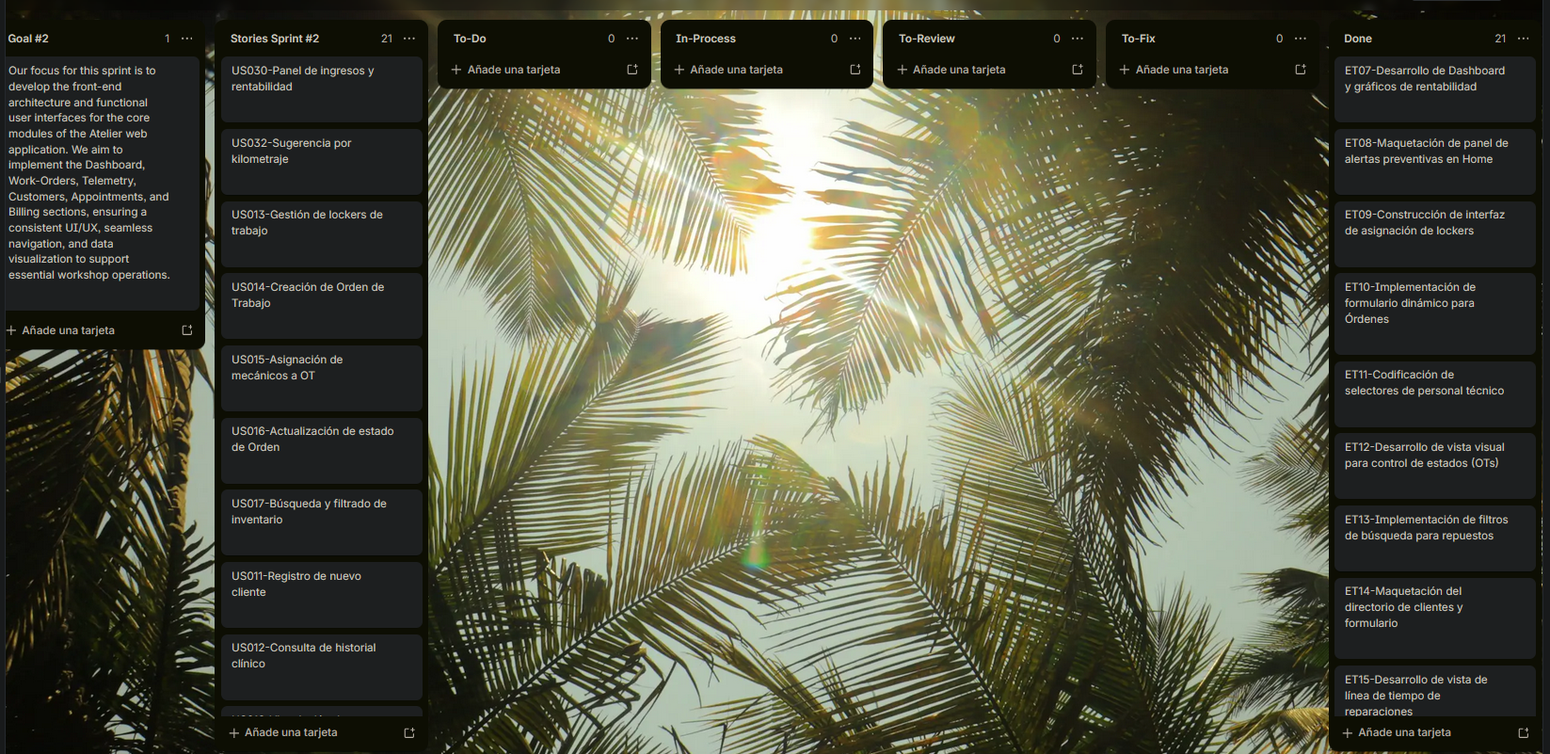
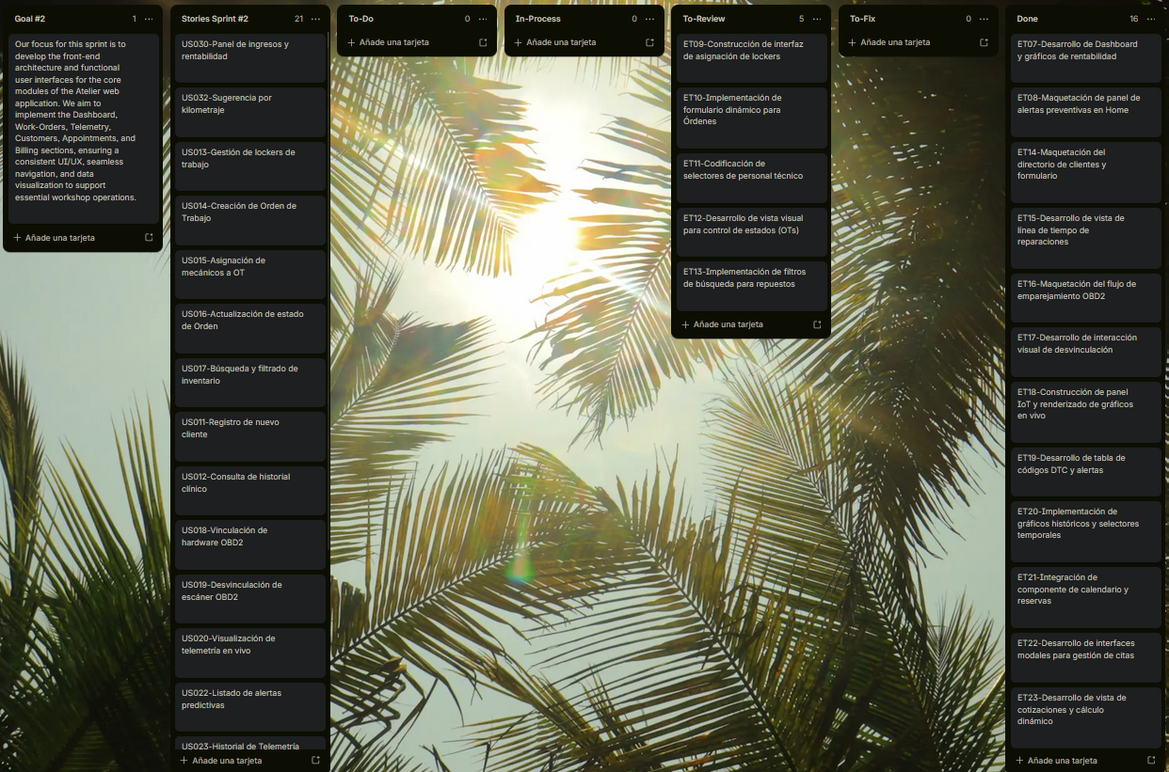
docs: add screenshots of atelier web app deploy.

diff --git a/report/35-landing-page-services-&-applications-implementation-2.md b/report/35-landing-page-services-&-applications-implementation-2.md
@@ -209,7 +209,7 @@
 |    Sprint 2 – 1 Retrospective Summary      |    The team identified that initial task estimations were too low. For the upcoming sprint, we committed to consolidating engineering tasks into blocks of 4 to 8 hours and ensuring a more rigorous technical documentation process.      |
 |     **Sprint Goal & User Stories**     |          |
 |     Sprint 2 Goal     |     Our focus for this sprint is to develop the front-end architecture and functional user interfaces for the core modules of the Atelier web application. We aim to implement the Dashboard, Work-Orders, Telemetry, Customers, Appointments, and Billing sections, ensuring a consistent UI/UX, seamless navigation, and data visualization to support essential workshop operations.     |
-|     Sprint 2 Velocity     |     35     |
+|     Sprint 2 Velocity     |     46     |
 |     Sum of Story Points     |   69       |
 
 #### 5.2.2.2.&emsp;&emsp;*Aspect Leaders and Collaborators* {#cap-5-2-2-2}
@@ -312,11 +312,11 @@
 | User Story |                                     | Work-Item / Task |                                                                |                                                                                                                                              |                    |                 |                                                |
 | Id         | Title                               | Id               | Title                                                          | Description                                                                                                                                  | Estimation (Hours) | Assigned To     | Status (To-do / In-Process / To-Review / Done) |
 | US030      | Panel de ingresos y rentabilidad    | ET07             | Desarrollo de Dashboard y gráficos de rentabilidad             | Codificar la interfaz del Home integrando librerías de gráficos y tarjetas de resumen para exponer visualmente las métricas financieras.     | 6                  | Joel Huamani    | Done                                          |
-| US032      | Sugerencia por kilometraje          | ET08             | Maquetación de panel de alertas preventivas en Home            | Desarrollar la sección del Dashboard dedicada a listar notificaciones y sugerencias proactivas de vehículos que superaron su kilometraje.    | 4                  | Joel Huamani    | Done                                          |
-| US013      | Gestión de lockers de trabajo       | ET09             | Construcción de interfaz de asignación de lockers              | Desarrollar la interfaz gráfica y los indicadores visuales de estado (ocupado/disponible) para la gestión de espacios físicos del taller.    | 4                  | Joel Huamani | Done                                          |
-| US014      | Creación de Orden de Trabajo        | ET10             | Implementación de formulario dinámico para Órdenes             | Maquetar el formulario interactivo para registrar órdenes de trabajo, incorporando selectores de clientes/vehículos y campos de descripción. | 6                  | Joel Huamani | Done                                          |
-| US015      | Asignación de mecánicos a OT        | ET11             | Codificación de selectores de personal técnico                 | Implementar la lógica visual y los componentes desplegables para asignar y vincular mecánicos a las órdenes de trabajo activas.              | 4                  | Joel Huamani | Done                                          |
-| US016      | Actualización de estado de Orden    | ET12             | Desarrollo de vista visual para control de estados (OTs)       | Implementar la interfaz interactiva para visualizar, filtrar y actualizar el progreso técnico y los diagnósticos de las órdenes de trabajo.  | 5                  | Joel Huamani | Done                                          |
+| US032      | Sugerencia por kilometraje          | ET08             | Maquetación de panel de alertas preventivas en Home            | Desarrollar la sección del Dashboard dedicada a listar notificaciones y sugerencias proactivas de vehículos que superaron su kilometraje.    | 4                  | Joel Huamani    | To-Review                                          |
+| US013      | Gestión de lockers de trabajo       | ET09             | Construcción de interfaz de asignación de lockers              | Desarrollar la interfaz gráfica y los indicadores visuales de estado (ocupado/disponible) para la gestión de espacios físicos del taller.    | 4                  | Joel Huamani | To-Review                                          |
+| US014      | Creación de Orden de Trabajo        | ET10             | Implementación de formulario dinámico para Órdenes             | Maquetar el formulario interactivo para registrar órdenes de trabajo, incorporando selectores de clientes/vehículos y campos de descripción. | 6                  | Joel Huamani | To-Review                                          |
+| US015      | Asignación de mecánicos a OT        | ET11             | Codificación de selectores de personal técnico                 | Implementar la lógica visual y los componentes desplegables para asignar y vincular mecánicos a las órdenes de trabajo activas.              | 4                  | Joel Huamani | To-Review                                          |
+| US016      | Actualización de estado de Orden    | ET12             | Desarrollo de vista visual para control de estados (OTs)       | Implementar la interfaz interactiva para visualizar, filtrar y actualizar el progreso técnico y los diagnósticos de las órdenes de trabajo.  | 5                  | Joel Huamani | To-Review                                          |
 | US017      | Búsqueda y filtrado de inventario   | ET13             | Implementación de filtros de búsqueda para repuestos           | Construir la barra de búsqueda y los componentes de filtrado por categoría para localizar repuestos rápidamente durante la reparación.       | 4                  | Joel Huamani | Done                                          |
 | US011      | Registro de nuevo cliente           | ET14             | Maquetación del directorio de clientes y formulario            | Codificar el listado maestro de clientes y el formulario de captura de datos con sus respectivas validaciones visuales de campos.            | 5                  | Aldo Machacca   | Done                                          |
 | US012      | Consulta de historial clínico       | ET15             | Desarrollo de vista de línea de tiempo de reparaciones         | Maquetar la interfaz que expone el historial clínico de los vehículos, ordenando cronológicamente las órdenes de trabajo previas.            | 5                  | Aldo Machacca   | Done                                          |
@@ -346,26 +346,87 @@
 
 | Repository | Branch | Commit Id | Commit Message | Commit Message Body | Commited On |
 |:----------:|:------:|-----------|----------------|---------------------|-------------|
-|     andeva-upc/atelier-web-app-aplicaciones-web       |    develop    |     6e76e6df      |       chore: initial commit.         |                     |     23/04/2026 11:57        |
-|     andeva-upc/atelier-web-app-aplicaciones-web       |    develop    |     32dd8f39      |      feat(material-design): add angular material theming and update styles.          |                     |      23/04/2026 12:02       |
-|     andeva-upc/atelier-web-app-aplicaciones-web       |    develop    |     4786effa      |    feat(i18n): add ngx-translate for internationalization support.            |                     |      23/04/2026 at 12:04       |
-|     andeva-upc/atelier-web-app-aplicaciones-web       |     develop   |    302e7c70       |      feat(i18n): integrate ngx-translate for multilingual support and add language files.          |                     |      23/04/2026 12:14       |
-|     andeva-upc/atelier-web-app-aplicaciones-web       |   develop     |     09075a73      |       feat(header): add header component with logo and buttons.         |                     |      23/04/2026 13:57       |
-|     andeva-upc/atelier-web-app-aplicaciones-web       |   develop     |    6e46c61d       |        feat(value-proposition): add hero component with title, subtitle, and buttons.        |                     |      23/04/2026 at 15:19       |
-|     andeva-upc/atelier-web-app-aplicaciones-web       |   develop     |     fedbfc39      |       style(header): update media query to hide button container on smaller screens.         |                     |      23/04/2026 15:22       |
-|     andeva-upc/atelier-web-app-aplicaciones-web       |    develop    |     b80c7e97      |        style(value-proposition): adjust background position for improved layout        |                     |      23/04/2026 15:27       |
-|     andeva-upc/atelier-web-app-aplicaciones-web       |    develop    |      e53f7f1b     |       style(header): hide logo text on smaller screens and update hero z-index.         |                     |      23/04/2026 15:32       |
-|     andeva-upc/atelier-web-app-aplicaciones-web       |    develop    |     3aae419f      |        style(value-proposition): update button styles and adjust layout for improved responsiveness.        |                     |       on 23/04/2026 at 15:47      |
-|     andeva-upc/atelier-web-app-aplicaciones-web       |   develop     |      070f4fd8     |        feat(benefits): add card component with animation and styling.        |                     |     23/04/2026 19:50        |
-|     andeva-upc/atelier-web-app-aplicaciones-web       |     develop   |     9f2e6d86      |        feat(pricing): initialize pricing component structure and integration.        |                     |     25/04/2026 00:17        |
-|     andeva-upc/atelier-web-app-aplicaciones-web       |   develop     |     aff3e5e2      |       feat(pricing): implement pricing toggle with signals and responsive styles.         |                     |     25/04/2026 00:21        |
-|     andeva-upc/atelier-web-app-aplicaciones-web       |   develop     |     d4d445e7      |       feat(pricing): implement pricing cards with dual-background design and dynamic prices.         |                     |      25/04/2026 00:48       |
-|     andeva-upc/atelier-web-app-aplicaciones-web       |   develop     |     774ba6b6      |        feat(pricing): complete pricing section with footer disclaimer, contact button and full responsive design.        |                     |      25/04/2026 01:15       |
-|     andeva-upc/atelier-web-app-aplicaciones-web       |   develop     |     5609a2fd      |       feat(team-info): add team component with member profiles.         |                     |       25/04/2026 10:32      |
-|     andeva-upc/atelier-website-aplicaciones-web       |   develop     |     d859ca4c      |         fix(team): add mariana's photo and fix card image background.       |                     |        25/04/2026 15:53     |
-|     andeva-upc/atelier-web-app-aplicaciones-web       |   develop     |     5ec553fd      |         feat: add footer in the landing page.       |                     |      25/04/2026 19:56       |
-|     andeva-upc/atelier-web-app-aplicaciones-web       |   develop     |      1c51d1ac     |        fix(footer): reorganize footer component imports and file structure.        |                     |      26/04/2026 07:07       |
-|     andeva-upc/atelier-web-app-aplicaciones-web       |   main     |     a4d98cd5      |        Release/2.0.0        |                     |      26/04/2026 07:23       |
+|     andeva-upc/atelier-web-app-aplicaciones-web       |    main    |     08ecc27b      |       chore: initial commit.         |                     |     4/05/2026 at 21:47        |
+|     andeva-upc/atelier-web-app-aplicaciones-webe       |    feature/json-server    |     7f4bc7a4      |      feat(server): initialize mock backend with json-server and atelier domain data.          |                     |      4/05/2026 at 22:49       |
+|     andeva-upc/atelier-web-app-aplicaciones-web       |    feature/json-server    |     ec41ff8e      |    feat(i18n): add ngx-translate for internationalization support.            |                     |      23/04/2026 at 12:04       |
+|     andeva-upc/atelier-web-app-aplicaciones-web       |     feature/json-server   |    302e7c70       |      feat: add api infrastructure and domain endpoints mapping.          |                     |      4/05/2026 at 23:49       |
+|     andeva-upc/atelier-web-app-aplicaciones-web       |   feature/json-server     |     c2a4a29d      |       chore: update db.json mock data.         |                     |      6/05/2026 at 09:35       |
+|     andeva-upc/atelier-web-app-aplicaciones-web       |   feature/json-server     |    6e46c61d       |        feat(value-proposition): add hero component with title, subtitle, and buttons.        |                     |      23/04/2026 at 15:19       |
+|     andeva-upc/atelier-web-app-aplicaciones-web       |   feature/json-server     |     d261693f      |       feat(shared): add generic API endpoint architecture and BaseEntity domain contract.         |                     |      6/05/2026 at 11:00       |
+|     andeva-upc/atelier-web-app-aplicaciones-web       |    feature/json-server    |     13dc003c      |        chore(api): synchronize mock db schema with new SQL DDL and update tests.        |                     |      6/05/2026 at 21:47       |
+|     andeva-upc/atelier-web-app-aplicaciones-web       |    feature/json-server    |      5a0bd4ca     |       chore: update db.json with two workshops, team roles and vehicle telemetry.         |                     |      6/05/2026 at 22:29       |
+|     andeva-upc/atelier-web-app-aplicaciones-web       |    feature/json-server    |     f39e4366      |        refactor: harmonize domain types and database schemas with UML class diagram.        |                     |       7/05/2026 at 09:34      |
+|     andeva-upc/atelier-web-app-aplicaciones-web       |   feature/json-server     |      a7b617eb     |        chore: align fake api mock data with new class diagram enums.        |                     |     7/05/2026 at 10:09        |
+|     andeva-upc/atelier-web-app-aplicaciones-web       |     feature/json-server   |     a8821bb9      |        chore: update db.json.        |                     |     7/05/2026 at 12:47        |
+|     andeva-upc/atelier-web-app-aplicaciones-web       |   feature/shared     |     89cd730e      |       feat(shared): implement layout structure with sidebar and main content.         |                     |     7/05/2026 at 22:06        |
+|     andeva-upc/atelier-web-app-aplicaciones-web       |   feature/json-server     |     cc959071      |       refactor(api): consolidate endpoints to 100% RESTful resources in class diagrams and mock api.         |                     |      9/05/2026 at 20:19       |
+|     andeva-upc/atelier-web-app-aplicaciones-web       |   feature/customers     |     e7cc94ba      |        feat(customers): define customer domain entity and repository contract.        |                     |      9/05/2026 at 21:50       |
+|     andeva-upc/atelier-web-app-aplicaciones-web       |   feature/customers     |     44b66d02      |       feat(customers): implement customer DTO and assembler mapper.         |                     |       9/05/2026 at 21:52      |
+|     andeva-upc/atelier-website-aplicaciones-web       |   feature/customers     |     fda339d1      |         feat(customers): create customer API service with dynamic relation merging and register in app config.       |                     |        9/05/2026 at 21:54    |
+|     andeva-upc/atelier-web-app-aplicaciones-web       |   feature/customers     |     d1608344      |         feat(customers): configure lazy-loaded route.       |                     |      9/05/2026 at 21:56       |
+|     andeva-upc/atelier-web-app-aplicaciones-web       |   feature/customers     |      a82241ba     |        feat(customers): migrate material icons to tree-shakeable @ng-icons and clean comments.        |                     |      9/05/2026 at 22:43       |
+|     andeva-upc/atelier-web-app-aplicaciones-web       |   feature/shared     |      bf257c43     |        feat(shared): implement premium reusable standalone modal.        |                     |      9/05/2026 at 22:52       |
+|     andeva-upc/atelier-web-app-aplicaciones-web       |   feature/customers     |      3ee7190b     |        feat(customers): declare customer creation contract in repository layer.        |                     |      9/05/2026 at 22:54       |
+|     andeva-upc/atelier-web-app-aplicaciones-web       |   feature/customers     |      d05f590c     |        refactor(customers): flatten views and introduce application store.        |                     |      10/05/2026 at 09:46       |
+|     andeva-upc/atelier-web-app-aplicaciones-web       |   feature/customers     |      4ea09d5e     |        feat(customers): add complete i18n translation support.        |                     |      10/05/2026 at 09:54       |
+|     andeva-upc/atelier-web-app-aplicaciones-web       |   feature/customers     |      23f55a8d     |        refactor(routing): enable component input binding and clean up duplicate imports.        |                     |      10/05/2026 at 10:04       |
+|     andeva-upc/atelier-web-app-aplicaciones-web       |   feature/customers     |      9743f197     |        refactor(customers): decouple smart registration form into standalone CustomerForm view.        |                     |      10/05/2026 at 11:10       |
+|     andeva-upc/atelier-web-app-aplicaciones-web       |   feature/customers     |      6ae51e17     |        style(customers): set card hover shadow and border-color to brand blue glow.        |                     |      10/05/2026 at 11:29       |
+|     andeva-upc/atelier-web-app-aplicaciones-web       |   feature/customers     |      31c99249     |        chore(git): update gitignore.        |                     |      10/05/2026 at 11:42       |
+|     andeva-upc/atelier-web-app-aplicaciones-web       |   feature/customers     |      c7f5ba28     |        refactor: align templates with Angular 21 standards and clean unused logic.        |                     |      10/05/2026 at 12:21       |
+|     andeva-upc/atelier-web-app-aplicaciones-web       |   feature/customers     |      a3fa5d45     |        refactor: clean up and optimize code.        |                     |      10/05/2026 at 12:26       |
+|     andeva-upc/atelier-web-app-aplicaciones-web       |   feature/customers     |      c0d2b80d     |        chore(env): configure production api url and ignore local dev environment.        |                     |      12/05/2026 at 11:22       |
+|     andeva-upc/atelier-web-app-aplicaciones-web       |   feature/billing     |      5fbf98af     |        feat(billing): implement billing bounded context with financial summary dashboard.        |                     |      12/05/2026 at 12:31       |
+|     andeva-upc/atelier-web-app-aplicaciones-web       |   feature/appointments     |      aec2146d     |        feat(appoinments): add appointments section.        |                     |      12/05/2026 at 12:34       |
+|     andeva-upc/atelier-web-app-aplicaciones-web       |   feature/billing     |      c01afa04     |        feat(billing): implement a financial KPI dashboard.        |                     |      12/05/2026 at 14:37       |
+|     andeva-upc/atelier-web-app-aplicaciones-web       |   feature/billing     |      7724fbca     |        feat(billing): add segmented navigation and monthly financial chart.        |                     |      12/05/2026 at 14:41       |
+|     andeva-upc/atelier-web-app-aplicaciones-web       |   feature/billing     |      ac1a0a0e     |        feat(billing): add monthly details table and presentation UI enhancements.        |                     |      12/05/2026 at 15:03       |
+|     andeva-upc/atelier-web-app-aplicaciones-web       |   feature/billing     |      00ace9c3     |        feat(shared): enhance sidebar layout and update translations.        |                     |      12/05/2026 at 18:20       |
+|     andeva-upc/atelier-web-app-aplicaciones-web       |   feature/billing     |      7a4d52e9     |        feat(shared): add toolbar component and restructure layout for improved navigation.        |                     |      12/05/2026 at 18:47       |
+|     andeva-upc/atelier-web-app-aplicaciones-web       |   feature/home     |      70dd7b45     |        fix(i18n): update customer list and modal translations, enhance search functionality.        |                     |      12/05/2026 at 19:01       |
+|     andeva-upc/atelier-web-app-aplicaciones-web       |   feature/home     |      9111c670     |        feat(core): align schema and mock data with financial and itemized billing requirements.        |                     |      13/05/2026 at 09:01       |
+|     andeva-upc/atelier-web-app-aplicaciones-web       |   feature/home     |      1c0cfc75     |        feat(core): implement multi-tenant support and align schema with financial requirements.        |                     |      13/05/2026 at 09:19       |
+|     andeva-upc/atelier-web-app-aplicaciones-web       |   feature/customers     |      54dcbb39     |        feat(customers): synchronize frontend models and UI with official SQL definition.        |                     |      13/05/2026 at 10:25       |
+|     andeva-upc/atelier-web-app-aplicaciones-web       |   feature/customers     |      8749dcc7     |        feat(customers): implement soft delete logic and UI button using deleted_at.        |                     |      13/05/2026 at 10:54       |
+|     andeva-upc/atelier-web-app-aplicaciones-web       |   feature/customers     |      2c4442b9     |        chore: update db.json.        |                     |      13/05/2026 at 11:03       |
+|     andeva-upc/atelier-web-app-aplicaciones-web       |   feature/json-server     |      826f6fff     |        feat(json-server): include deleted_at field in core entities of db.json.        |                     |      13/05/2026 at 11:32       |
+|     andeva-upc/atelier-web-app-aplicaciones-web       |   develop     |      5475194f     |        feat(mock-server): expand production-like data and align db.json with SQL schema.        |                     |      13/05/2026 at 13:12       |
+|     andeva-upc/atelier-web-app-aplicaciones-web       |   feature/customers     |      5c83e350     |        refactor(customers): remove hardcoded client logic to support dynamic mock data.        |                     |      13/05/2026 at 13:43       |
+|     andeva-upc/atelier-web-app-aplicaciones-web       |   feature/telemetry     |      a29df9fe     |        feat(telemetry): add domain entities and chart.js initial setup.        |                     |      13/05/2026 at 18:49       |
+|     andeva-upc/atelier-web-app-aplicaciones-web       |   feature/telemetry     |      39fa92cb     |        feat(telemetry): infrastructure layer and api integration.        |                     |      13/05/2026 at 18:52       |
+|     andeva-upc/atelier-web-app-aplicaciones-web       |   feature/telemetry     |      5b149809     |        feat(telemetry): implement application layer with signal store and routing.        |                     |      13/05/2026 at 18:56       |
+|     andeva-upc/atelier-web-app-aplicaciones-web       |   feature/telemetry     |      cd8bffc3     |        feat(telemetry): implement ui components for metrics, alerts and selection.        |                     |      13/05/2026 at 19:03       |
+|     andeva-upc/atelier-web-app-aplicaciones-web       |   feature/telemetry     |      595f41b4     |        feat(telemetry): history chart integration with chart.js.        |                     |      13/05/2026 at 19:08       |
+|     andeva-upc/atelier-web-app-aplicaciones-web       |   feature/telemetry     |      600f132f     |        style(telemetry): polish dtc alert cards for premium aesthetic look.        |                     |      13/05/2026 at 19:13       |
+|     andeva-upc/atelier-web-app-aplicaciones-web       |   feature/telemetry     |      60b5be51     |        feat(telemetry): implement obd2 linking logic and modal integration.        |                     |      13/05/2026 at 19:24       |
+|     andeva-upc/atelier-web-app-aplicaciones-web       |   feature/telemetry     |      9084d0a1     |        feat(telemetry): implement obd2 linking logic and polish dashboard ui.        |                     |      13/05/2026 at 19:41       |
+|     andeva-upc/atelier-web-app-aplicaciones-web       |   feature/telemetry     |      2b3584f8     |        feat(telemetry): implement i18n for DTC descriptions with smart fallback.        |                     |      13/05/2026 at 19:55      |
+|     andeva-upc/atelier-web-app-aplicaciones-web       |   feature/telemetry     |      bd2ae292     |        feat(telemetry): finalize module i18n and UI/UX documentation.        |                     |      13/05/2026 at 20:08       |
+|     andeva-upc/atelier-web-app-aplicaciones-web       |   feature/telemetry     |      01a739e6     |        refactor(telemetry): flatten presentation directory and extract inline templates/styles.        |                     |      13/05/2026 at 20:44       |
+|     andeva-upc/atelier-web-app-aplicaciones-web       |   feature/dashboard     |      a1e79781     |        feat(dashboard): implement dashboard module with metrics, alerts, and recent work orders.        |                     |      13/05/2026 at 20:52       |
+|     andeva-upc/atelier-web-app-aplicaciones-web       |   feature/dashboard     |      f2ea15c4     |        feat(dashboard): add home dashboard component with metrics, alerts, and recent orders.        |                     |      13/05/2026 at 20:52       |
+|     andeva-upc/atelier-web-app-aplicaciones-web       |   feature/dashboard     |      415751c2     |        fix(dashboard): add dashboard repository and API integration, enhance localization for dashboard components.        |                     |      13/05/2026 at 21:09       |
+|     andeva-upc/atelier-web-app-aplicaciones-web       |   feature/appointments     |      26567646     |        feat(appointments): implement appointments module.        |                     |      13/05/2026 at 23:12       |
+|     andeva-upc/atelier-web-app-aplicaciones-web       |   feature/telemetry     |      28a2447b     |        fix(telemetry): extend history range to 48h to ensure chart data visibility.        |                     |      14/05/2026 at 08:34       |
+|     andeva-upc/atelier-web-app-aplicaciones-web       |   feature/billing     |      2b0a5c98     |        feat(billing): implement billing list view with internationalization support.        |                     |      14/05/2026 at 09:51       |
+|     andeva-upc/atelier-web-app-aplicaciones-web       |   feature/billing     |      2781f717     |        feat(billing): extend domain models and store for quotes and payments.        |                     |      14/05/2026 at 11:23       |
+|     andeva-upc/atelier-web-app-aplicaciones-web       |   feature/billing     |      9af990f2     |        feat(billing): implement new quote creation modal with stock validation.        |                     |      14/05/2026 at 11:32       |
+|     andeva-upc/atelier-web-app-aplicaciones-web       |   feature/billing     |      1ea73752     |        feat(billing): implement voucher management tab and payment registration.        |                     |      14/05/2026 at 11:36       |
+|     andeva-upc/atelier-web-app-aplicaciones-web       |   feature/work     |      d5d15501     |        deat(work):implement work order and details.        |                     |      14/05/2026 at 11:42       |
+|     andeva-upc/atelier-web-app-aplicaciones-web       |   feature/billing     |      c428247a     |        refactor(billing): use MatDialog for quote and payment workflows.        |                     |      14/05/2026 at 11:58       |
+|     andeva-upc/atelier-web-app-aplicaciones-web       |   feature/inventory     |      cebca0ca     |        fix: resolve merge conflicts and integrate inventory module        |                     |      14/05/2026 at 12:26       |
+|     andeva-upc/atelier-web-app-aplicaciones-web       |   feature/appointments     |      aad23121     |        style(appointments): align typography with design system.        |                     |      14/05/2026 at 12:34       |
+|     andeva-upc/atelier-web-app-aplicaciones-web       |   feature/home     |      3e1a6d8f     |        feat(dashboard): add payments API integration and update dashboard data aggregation.        |                     |      14/05/2026 at 13:08       |
+|     andeva-upc/atelier-web-app-aplicaciones-web       |   feature/home     |      6359bc0f     |        style(dashboard): enhance alerts list styling and scrollbar appearance.        |                     |      14/05/2026 at 13:09       |
+|     andeva-upc/atelier-web-app-aplicaciones-web       |   feature/billing     |      e76954fc     |        style(billing): refine dashboard aesthetics and input rounding.        |                     |      14/05/2026 at 16:06       |
+|     andeva-upc/atelier-web-app-aplicaciones-web       |   feature/billing     |      12772947     |        style(ui): set global input rounding and refactor shared modal component.        |                     |      14/05/2026 at 16:59       |
+|     andeva-upc/atelier-web-app-aplicaciones-web       |   feature/billing     |      934e28e0     |        chore: update platform provider api base url to production mock.        |                     |      14/05/2026 at 17:36       |
+|     andeva-upc/atelier-web-app-aplicaciones-web       |   feature/inventory     |      131e485d     |        fix(inventory): replace placeholder emojis with PrimeIcons.        |                     |      14/05/2026 at 18:00       |
+|     andeva-upc/atelier-web-app-aplicaciones-web       |   feature/work     |      0f722144     |        feat(work): implement work order.        |                     |      14/05/2026 at 18:08       |
+|     andeva-upc/atelier-web-app-aplicaciones-web       |   develop     |      047b4e7f     |        chore: sync database schema and domain models.        |                     |      14/05/2026 at 18:15       |
+|     andeva-upc/atelier-web-app-aplicaciones-web       |   feature/inventory     |      7d66cc3b     |        fix(inventory): replace placeholder emojis with PrimeIcons.       |                     |      14/05/2026 at 18:23       |
+|     andeva-upc/atelier-web-app-aplicaciones-web       |   develop     |      93dbde6c     |        chore: update db.json.        |                     |      14/05/2026 at 18:24       |
+|     andeva-upc/atelier-web-app-aplicaciones-web       |   main     |     ebdc352 |        release/1.0.0        |                     |      26/04/2026 18:58       |
 
 
 #### 5.2.2.5.&emsp;&emsp;*Execution Evidence for Sprint Review* {#cap-5-2-2-5}
@@ -378,18 +439,18 @@
 
 *Capturas de Pantalla de la Web App de atelier*
 
-![](assets/web-app-1.jpg "Capturas de Pantalla de la Web App de atelier")
-![](assets/web-app-2.jpg "Capturas de Pantalla de la Web App de atelier")
-![](assets/web-app-3.jpg "Capturas de Pantalla de la Web App de atelier")
-![](assets/web-app-4.jpg "Capturas de Pantalla de la Web App de atelier")
-![](assets/web-app-5.jpg "Capturas de Pantalla de la Web App de atelier")
-![](assets/web-app-6.jpg "Capturas de Pantalla de la Web App de atelier")
+![](assets/web-app-1.png "Capturas de Pantalla de la Web App de atelier")
+![](assets/web-app-2.png "Capturas de Pantalla de la Web App de atelier")
+![](assets/web-app-3.png "Capturas de Pantalla de la Web App de atelier")
+![](assets/web-app-4.png "Capturas de Pantalla de la Web App de atelier")
+![](assets/web-app-5.png "Capturas de Pantalla de la Web App de atelier")
+![](assets/web-app-6.png "Capturas de Pantalla de la Web App de atelier")
 
 #### 5.2.2.6.&emsp;&emsp;*Services Documentation Evidence for Sprint Review* {#cap-5-2-2-6}
 
 &emsp;&emsp;&emsp;&emsp;Para la ejecución y validación del desarrollo del Front-end durante el Sprint 2, el equipo adoptó un enfoque de desarrollo paralelo. Dado que el Backend definitivo será desarrollado en iteraciones posteriores, se implementó y desplegó una Mock API utilizando JSON-Server, alojada en el servicio en la nube Render.
 
-&emsp;&emsp;&emsp;&emsp;Este enfoque permitió a los líderes de cada aspecto realizar peticiones HTTP reales desde la aplicación web en Angular, simulando el comportamiento transaccional del sistema y validando el renderizado dinámico de los componentes en producción.
+&emsp;&emsp;&emsp;&emsp;Este enfoque permitió a los líderes de cada aspecto realizar peticiones HTTP reales desde la aplicación web en Vue, simulando el comportamiento transaccional del sistema y validando el renderizado dinámico de los componentes en producción.
 
 #### 5.2.2.7.&emsp;&emsp;*Software Deployment Evidence for Sprint Review* {#cap-5-2-2-7}
 
@@ -425,7 +486,7 @@
 
 ![](assets/vercel-deploy-2.png "Captura de pantalla de la configuración de despliegue de Vercel")
 
-&emsp;&emsp;&emsp;&emsp;Paso 4: Obtención del enlace público y validación: []().
+&emsp;&emsp;&emsp;&emsp;Paso 4: Obtención del enlace público y validación: [https://atelier-aplicaciones-web.vercel.app/home](https://atelier-aplicaciones-web.vercel.app/home).
 
 #### 5.2.2.8.&emsp;&emsp;*Team Collaboration Insights during Sprint* {#cap-5-2-2-8}
 
@@ -437,7 +498,7 @@
 
 &emsp;&emsp;&emsp;&emsp;Luis Granda: Se encargó de codificar las interfaces del módulo de Billing. Para validar su funcionamiento, estructuró la comunicación con los Web Services mediante los endpoints /quotes y /payments, simulando el cierre financiero de las reparaciones.
 
-&emsp;&emsp;&emsp;&emsp;Aldo MAchacca: Lideró el desarrollo del producto Web Services configurando la arquitectura base del archivo db.json para la Mock API y desplegándolo en Render. Lideró la implementación de las vistas de Telemetry y Customers en el Front-end. Además, colaboró activamente en la definición del esquema de datos de los Web Services, mapeando las respuestas simuladas de los endpoints /telemetry_snapshots y /vehicle_dtc_alerts para renderizar las gráficas dinámicas de los vehículos.
+&emsp;&emsp;&emsp;&emsp;Aldo Machacca: Lideró el desarrollo del producto Web Services configurando la arquitectura base del archivo db.json para la Mock API y desplegándolo en Render. Lideró la implementación de las vistas de Telemetry y Customers en el Front-end. Además, colaboró activamente en la definición del esquema de datos de los Web Services, mapeando las respuestas simuladas de los endpoints /telemetry_snapshots y /vehicle_dtc_alerts para renderizar las gráficas dinámicas de los vehículos.
 
 &emsp;&emsp;&emsp;&emsp;Jennifer Riveros: Centró su esfuerzo en la Web Application desarrollando las interfaces del módulo de Quotes. Interactuó con los endpoints de /quotes como principal. 
 
@@ -447,6 +508,6 @@
 
 *Gráfico de commits*
 
-![](assets/commits-sprint-2.jpg "Gráfico de commits")
+![](assets/commits-sprint-2.png "Gráfico de commits")
 
 <div style='page-break-after: always'></div>
